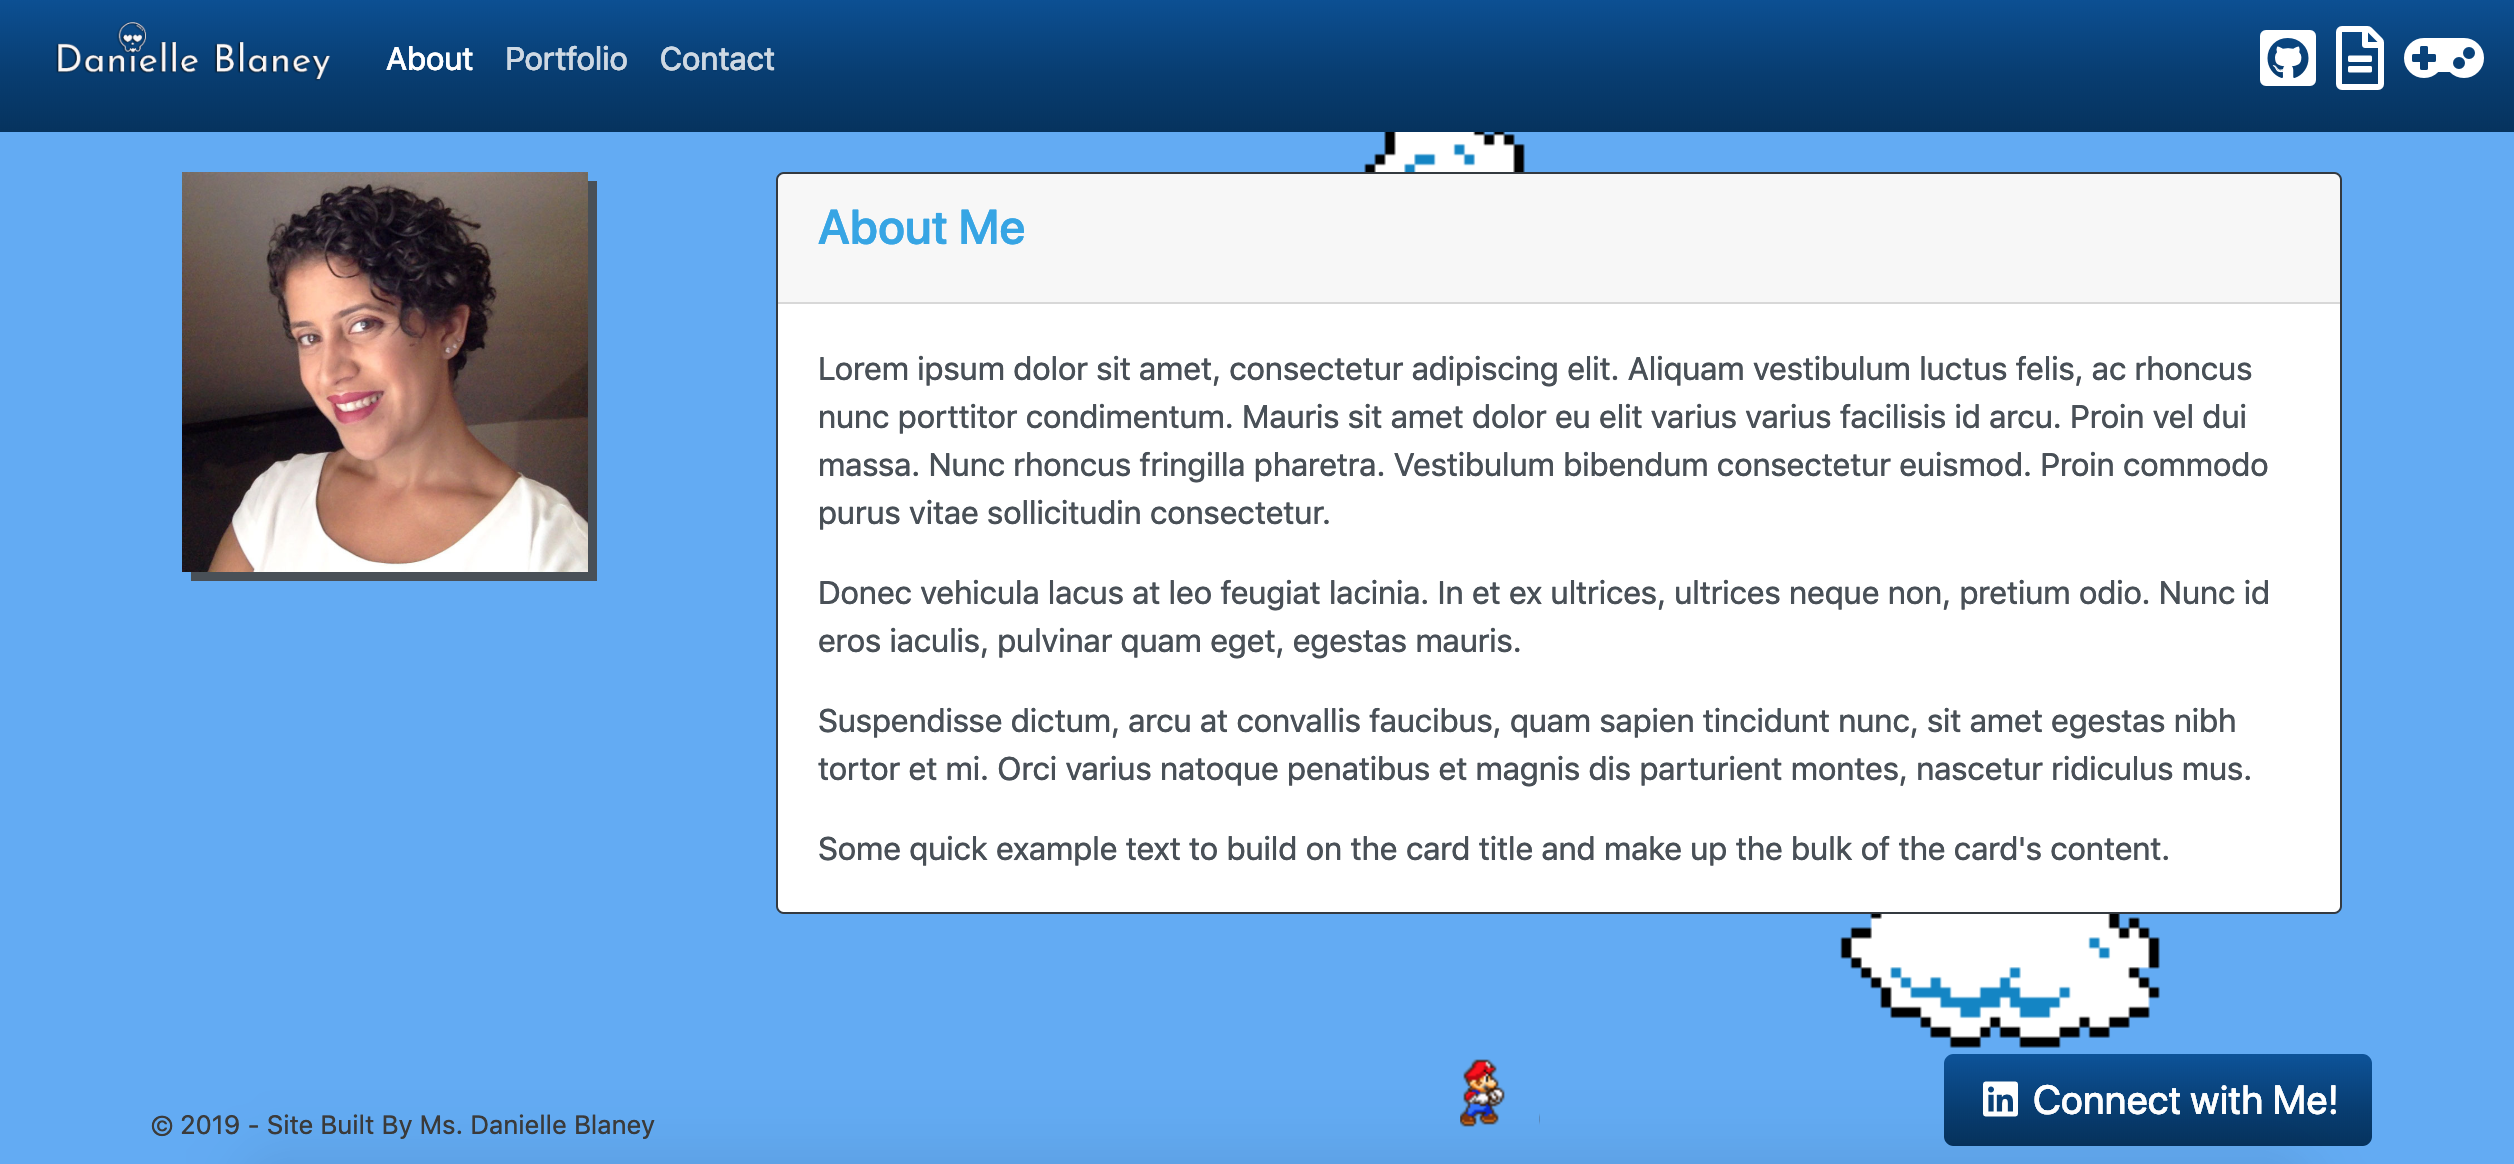
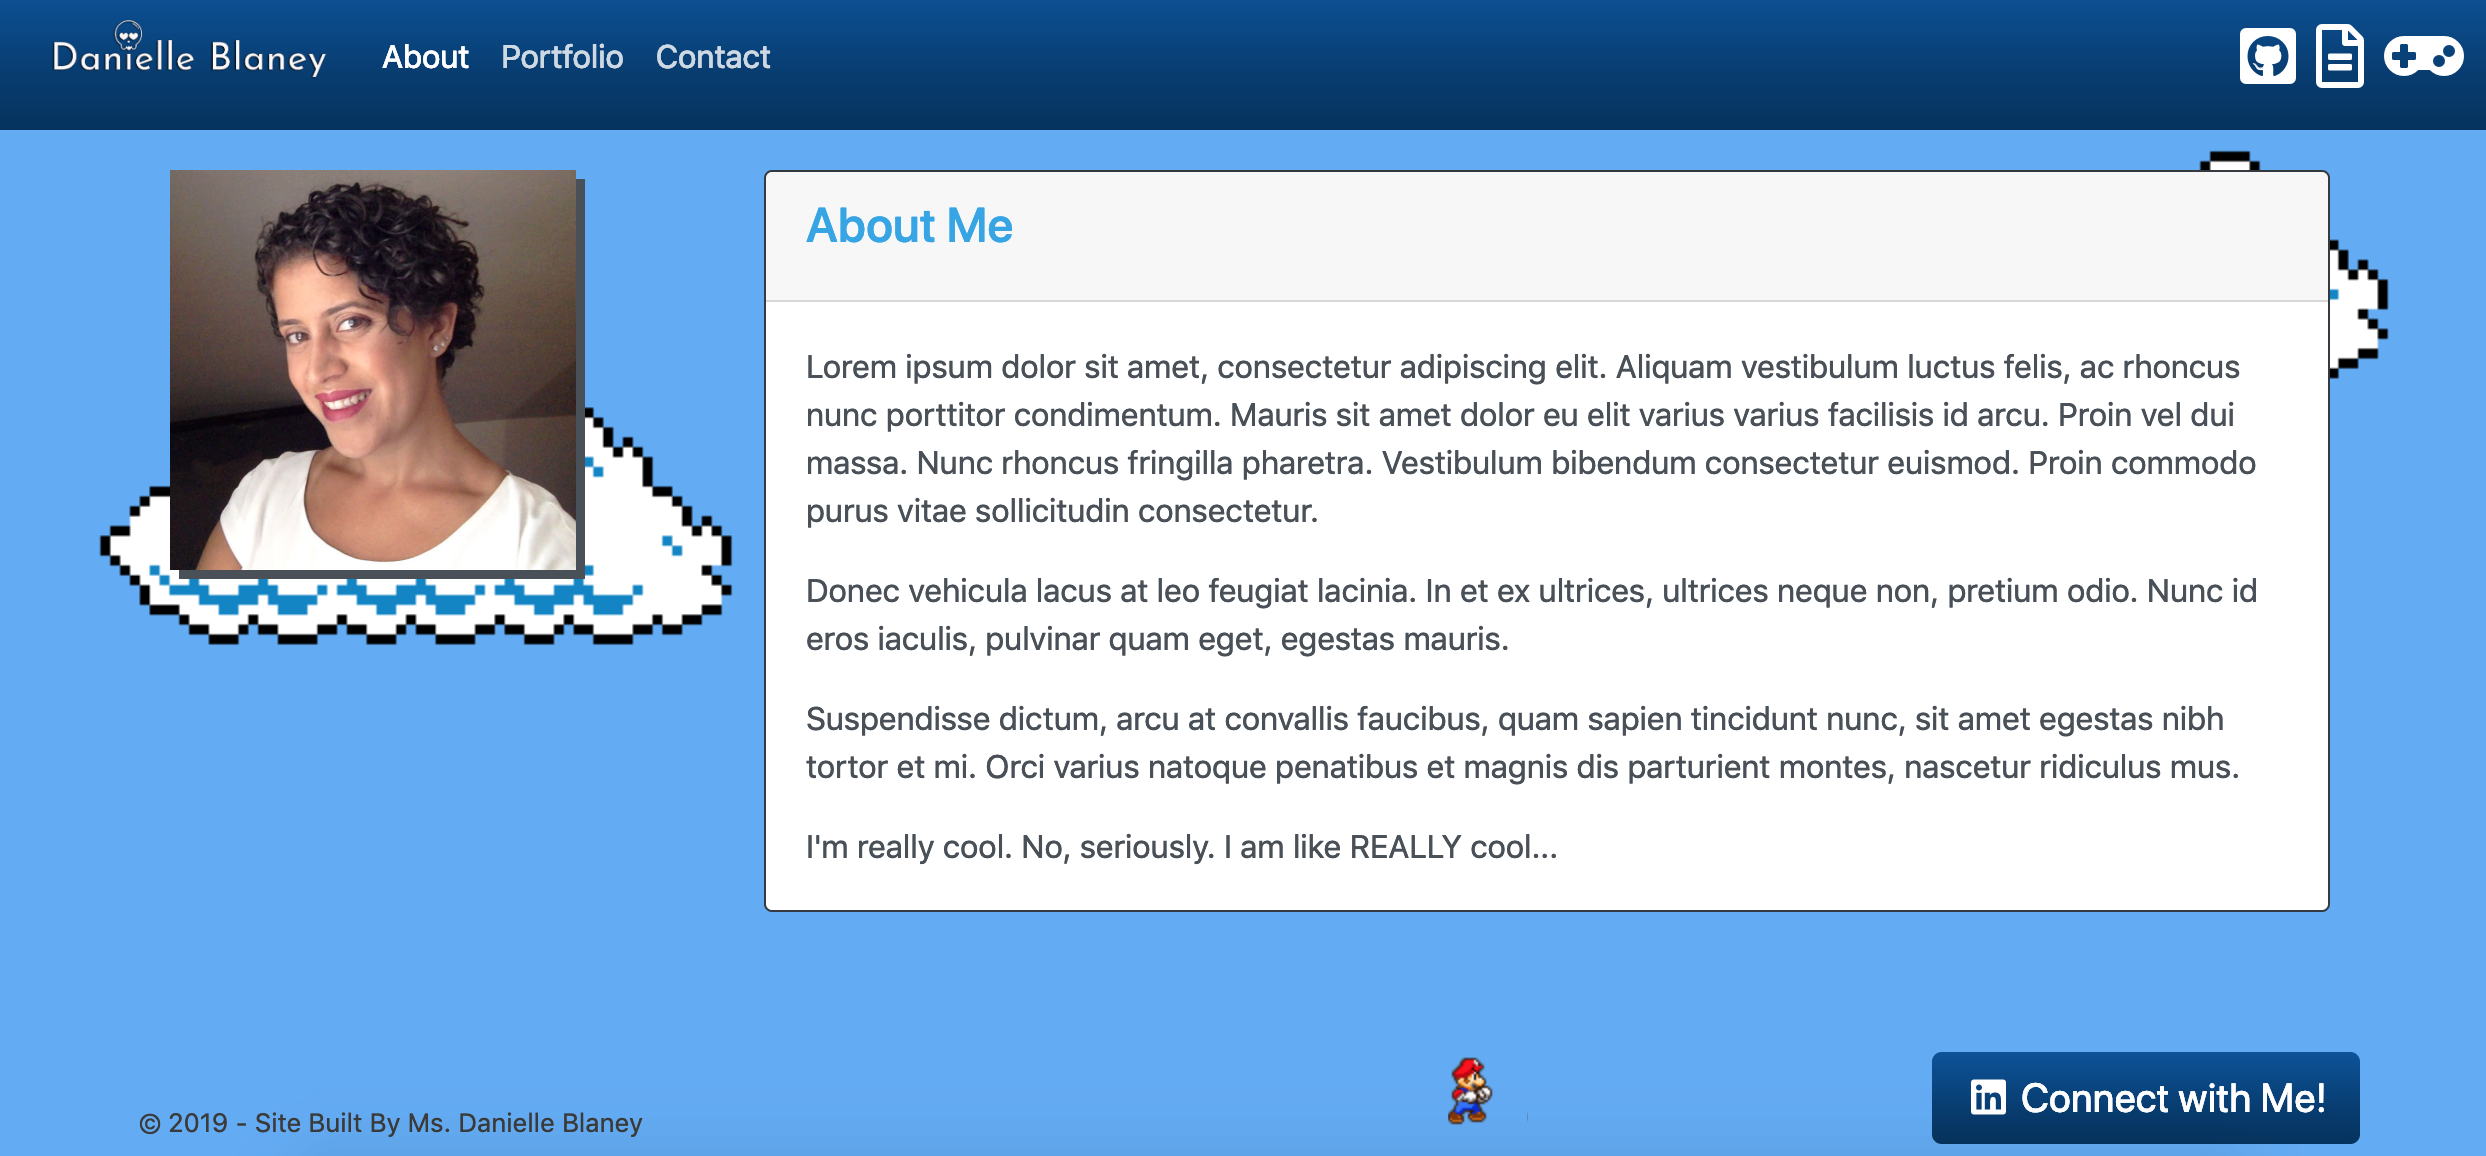
text

diff --git a/index.html b/index.html
@@ -71,9 +71,9 @@
                         <h4 class="card-title">About Me</h4>
                       </div>
                       <div class="card-body">
-                        <p class="card-text">Lorem ipsum dolor sit amet, consectetur adipiscing elit. Aliquam vestibulum luctus felis, ac rhoncus nunc porttitor condimentum. Mauris sit amet dolor eu elit varius varius facilisis id arcu. Proin vel dui massa. Nunc rhoncus fringilla pharetra. Vestibulum bibendum consectetur euismod. Proin commodo purus vitae sollicitudin consectetur.</p>
+                        <p class="card-text">I am a graduate of Rowan University with a degree in PR and Advertising. I am currently enrolled in Rutgers Coding Bootcamp, expecting completion in August 2019.</p>
 
-                        <p class="card-text">Donec vehicula lacus at leo feugiat lacinia. In et ex ultrices, ultrices neque non, pretium odio. Nunc id eros iaculis, pulvinar quam eget, egestas mauris.</p>
+                        <p class="card-text">I enjoy long walks on the beach and bonfires on cool summer nights while star gazing. Donec vehicula lacus at leo feugiat lacinia. In et ex ultrices, ultrices neque non, pretium odio. Nunc id eros iaculis, pulvinar quam eget, egestas mauris.</p>
 
                         <p class="card-text">Suspendisse dictum, arcu at convallis faucibus, quam sapien tincidunt nunc, sit amet egestas nibh tortor et mi. Orci varius natoque penatibus et magnis dis parturient montes, nascetur ridiculus mus.</p>
 
